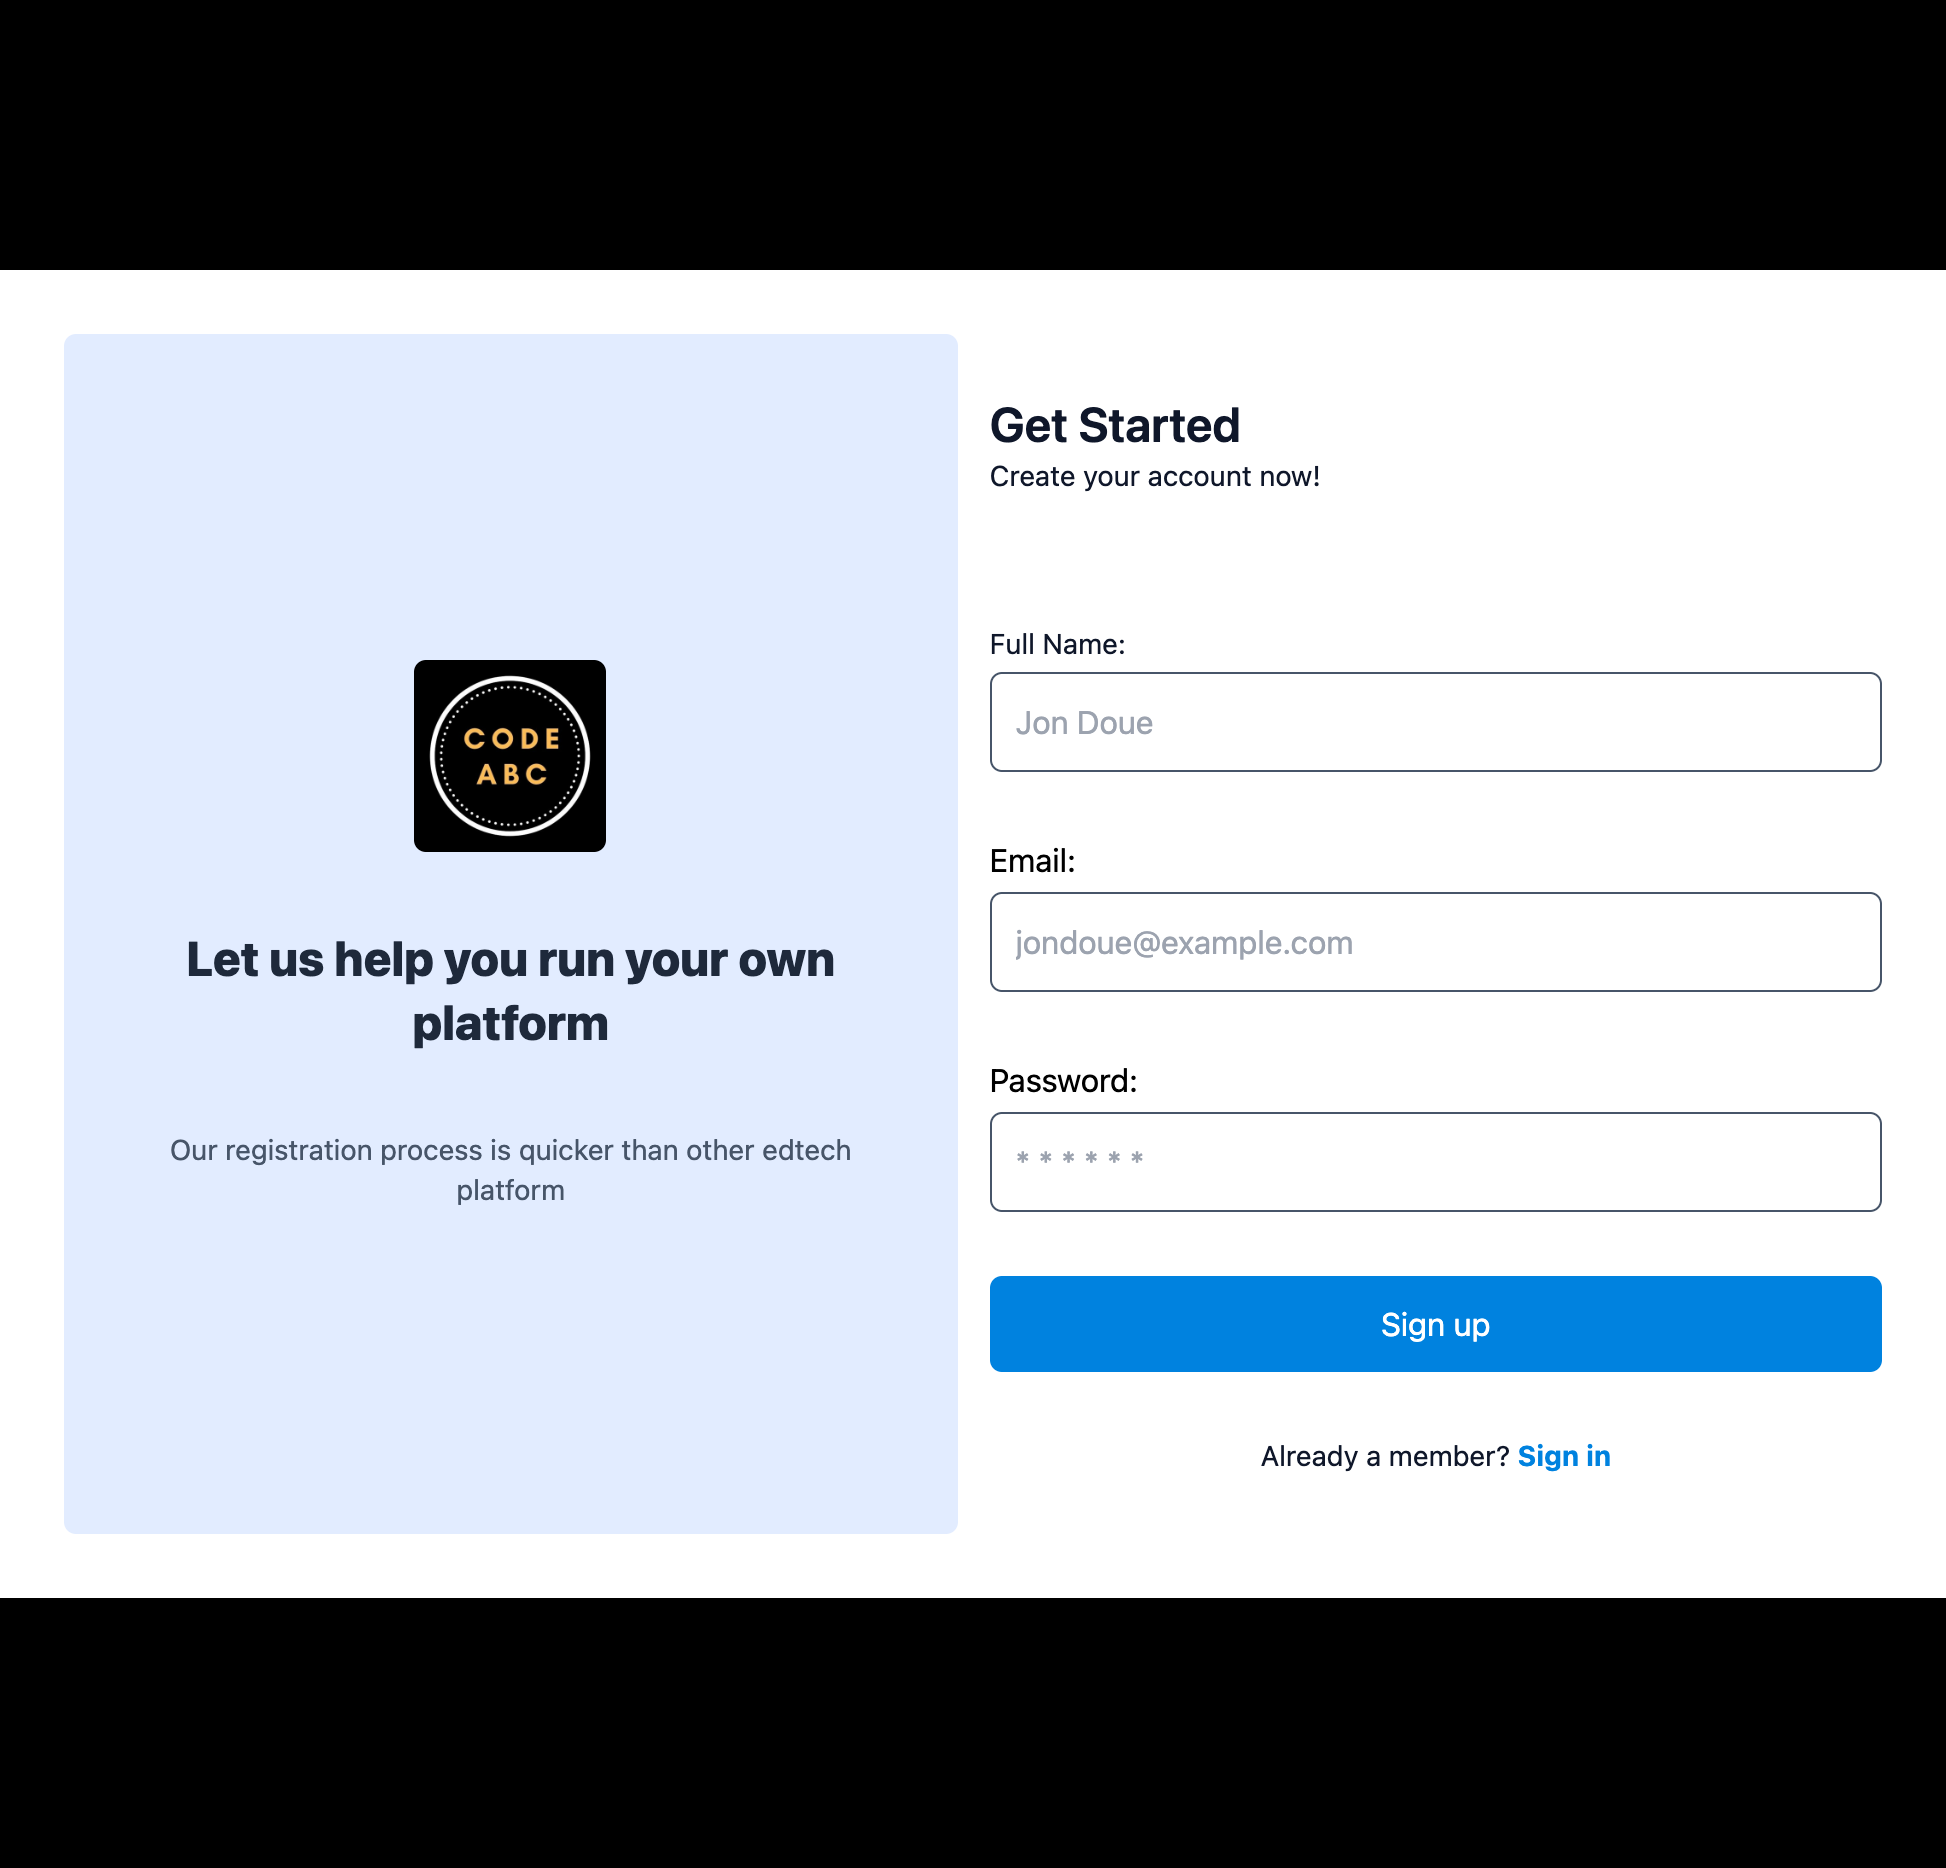
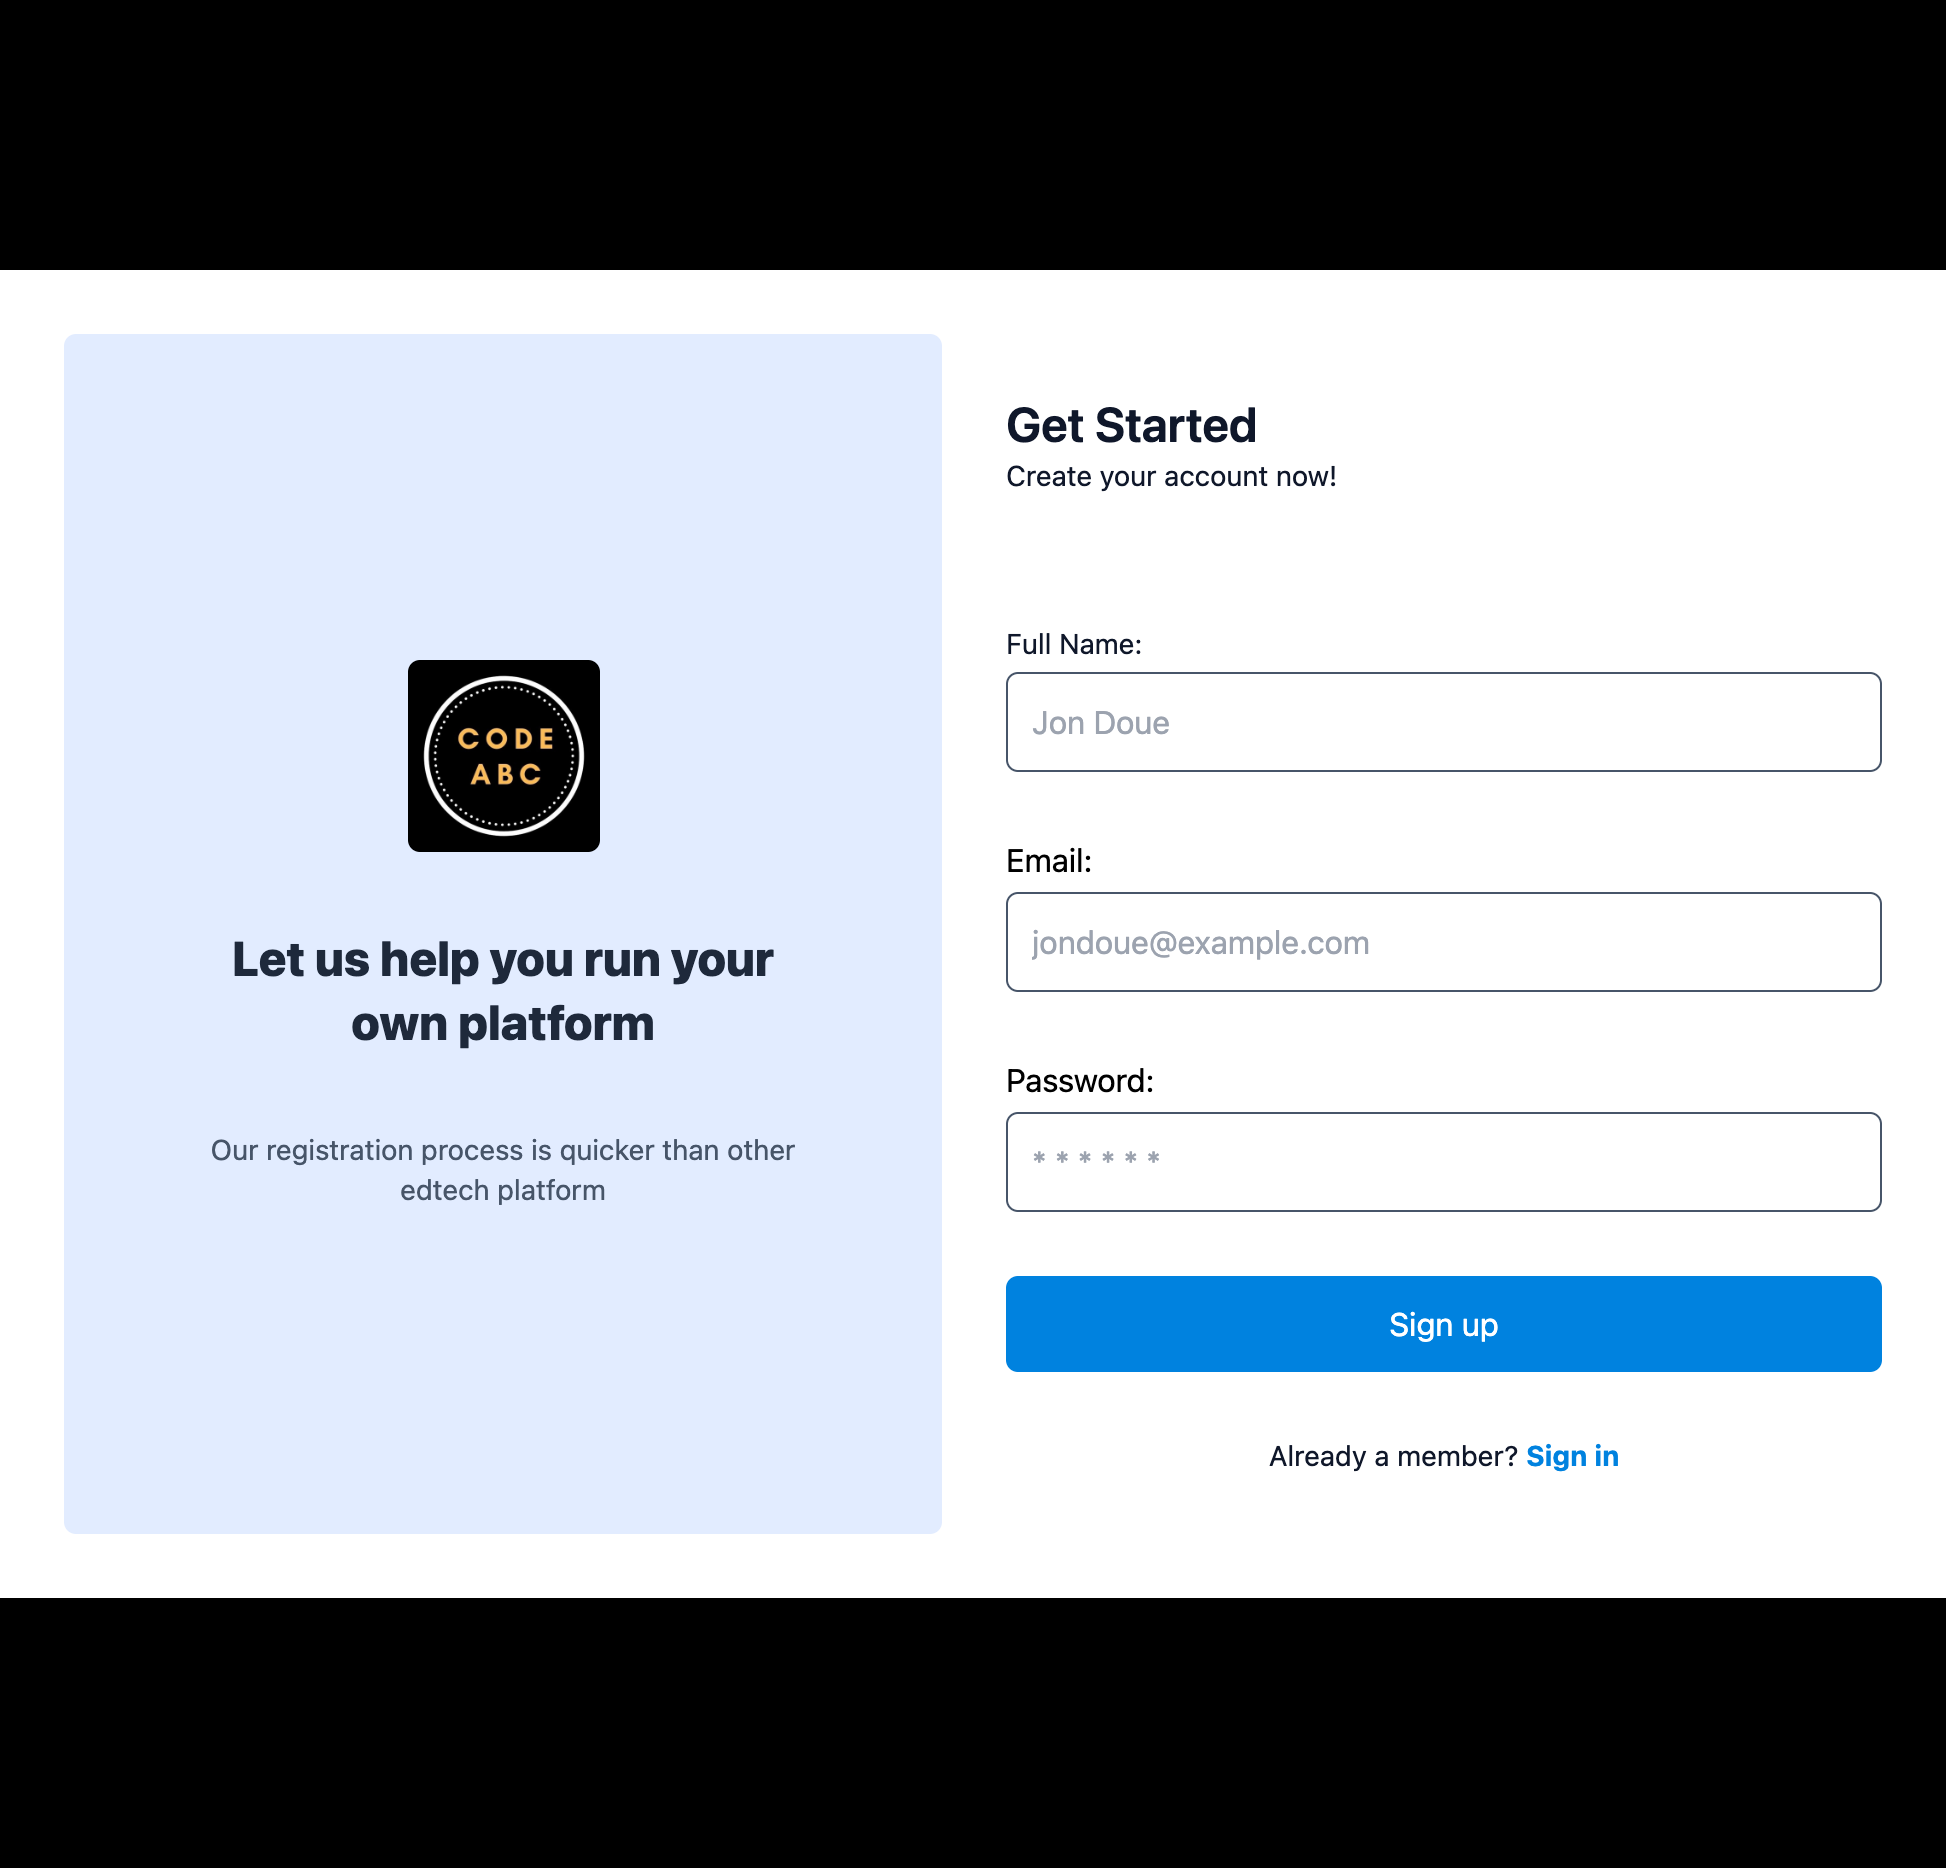
Fixed

diff --git a/src/index.html b/src/index.html
@@ -9,10 +9,10 @@
 <body>
     <div class="w-screen h-screen bg-black flex justify-center items-center">
 
-        <div class="bg-white p-3 sm:p-8 flex flex-col sm:flex-row sm:max-w-5xl sm:w-full sm:mx-auto sm:gap-4 justify-center items-center"> 
+        <div class="bg-white p-3 sm:p-8 flex flex-col sm:flex-row sm:max-w-5xl sm:w-full sm:mx-auto sm:gap-8 justify-center items-center"> 
 
             <div class="L sm:w-1/2 bg-[#E2ECFF] px-4 py-4 rounded-md sm:min-h-[600px] flex flex-col justify-center items-center">
-                <div class="min-h-[20rem] sm:min-h-[350px] flex flex-col justify-evenly items-center text-center px-[50px] sm:px-8 sm:flex-none"> 
+                <div class="min-h-[20rem] sm:min-h-[350px] flex flex-col justify-evenly items-center text-center px-[50px] sm:px-12 sm:flex-none"> 
                     <img src="/images/codeabc-logo.jpg" alt="logo" class="w-24 h-24 rounded-md"/>
                     <h1 class="text-2xl font-extrabold text-slate-800 ">Let us help you run your own platform</h1>
                     <p class=" text-slate-600 text-sm">Our registration process is quicker than other edtech platform</p>
